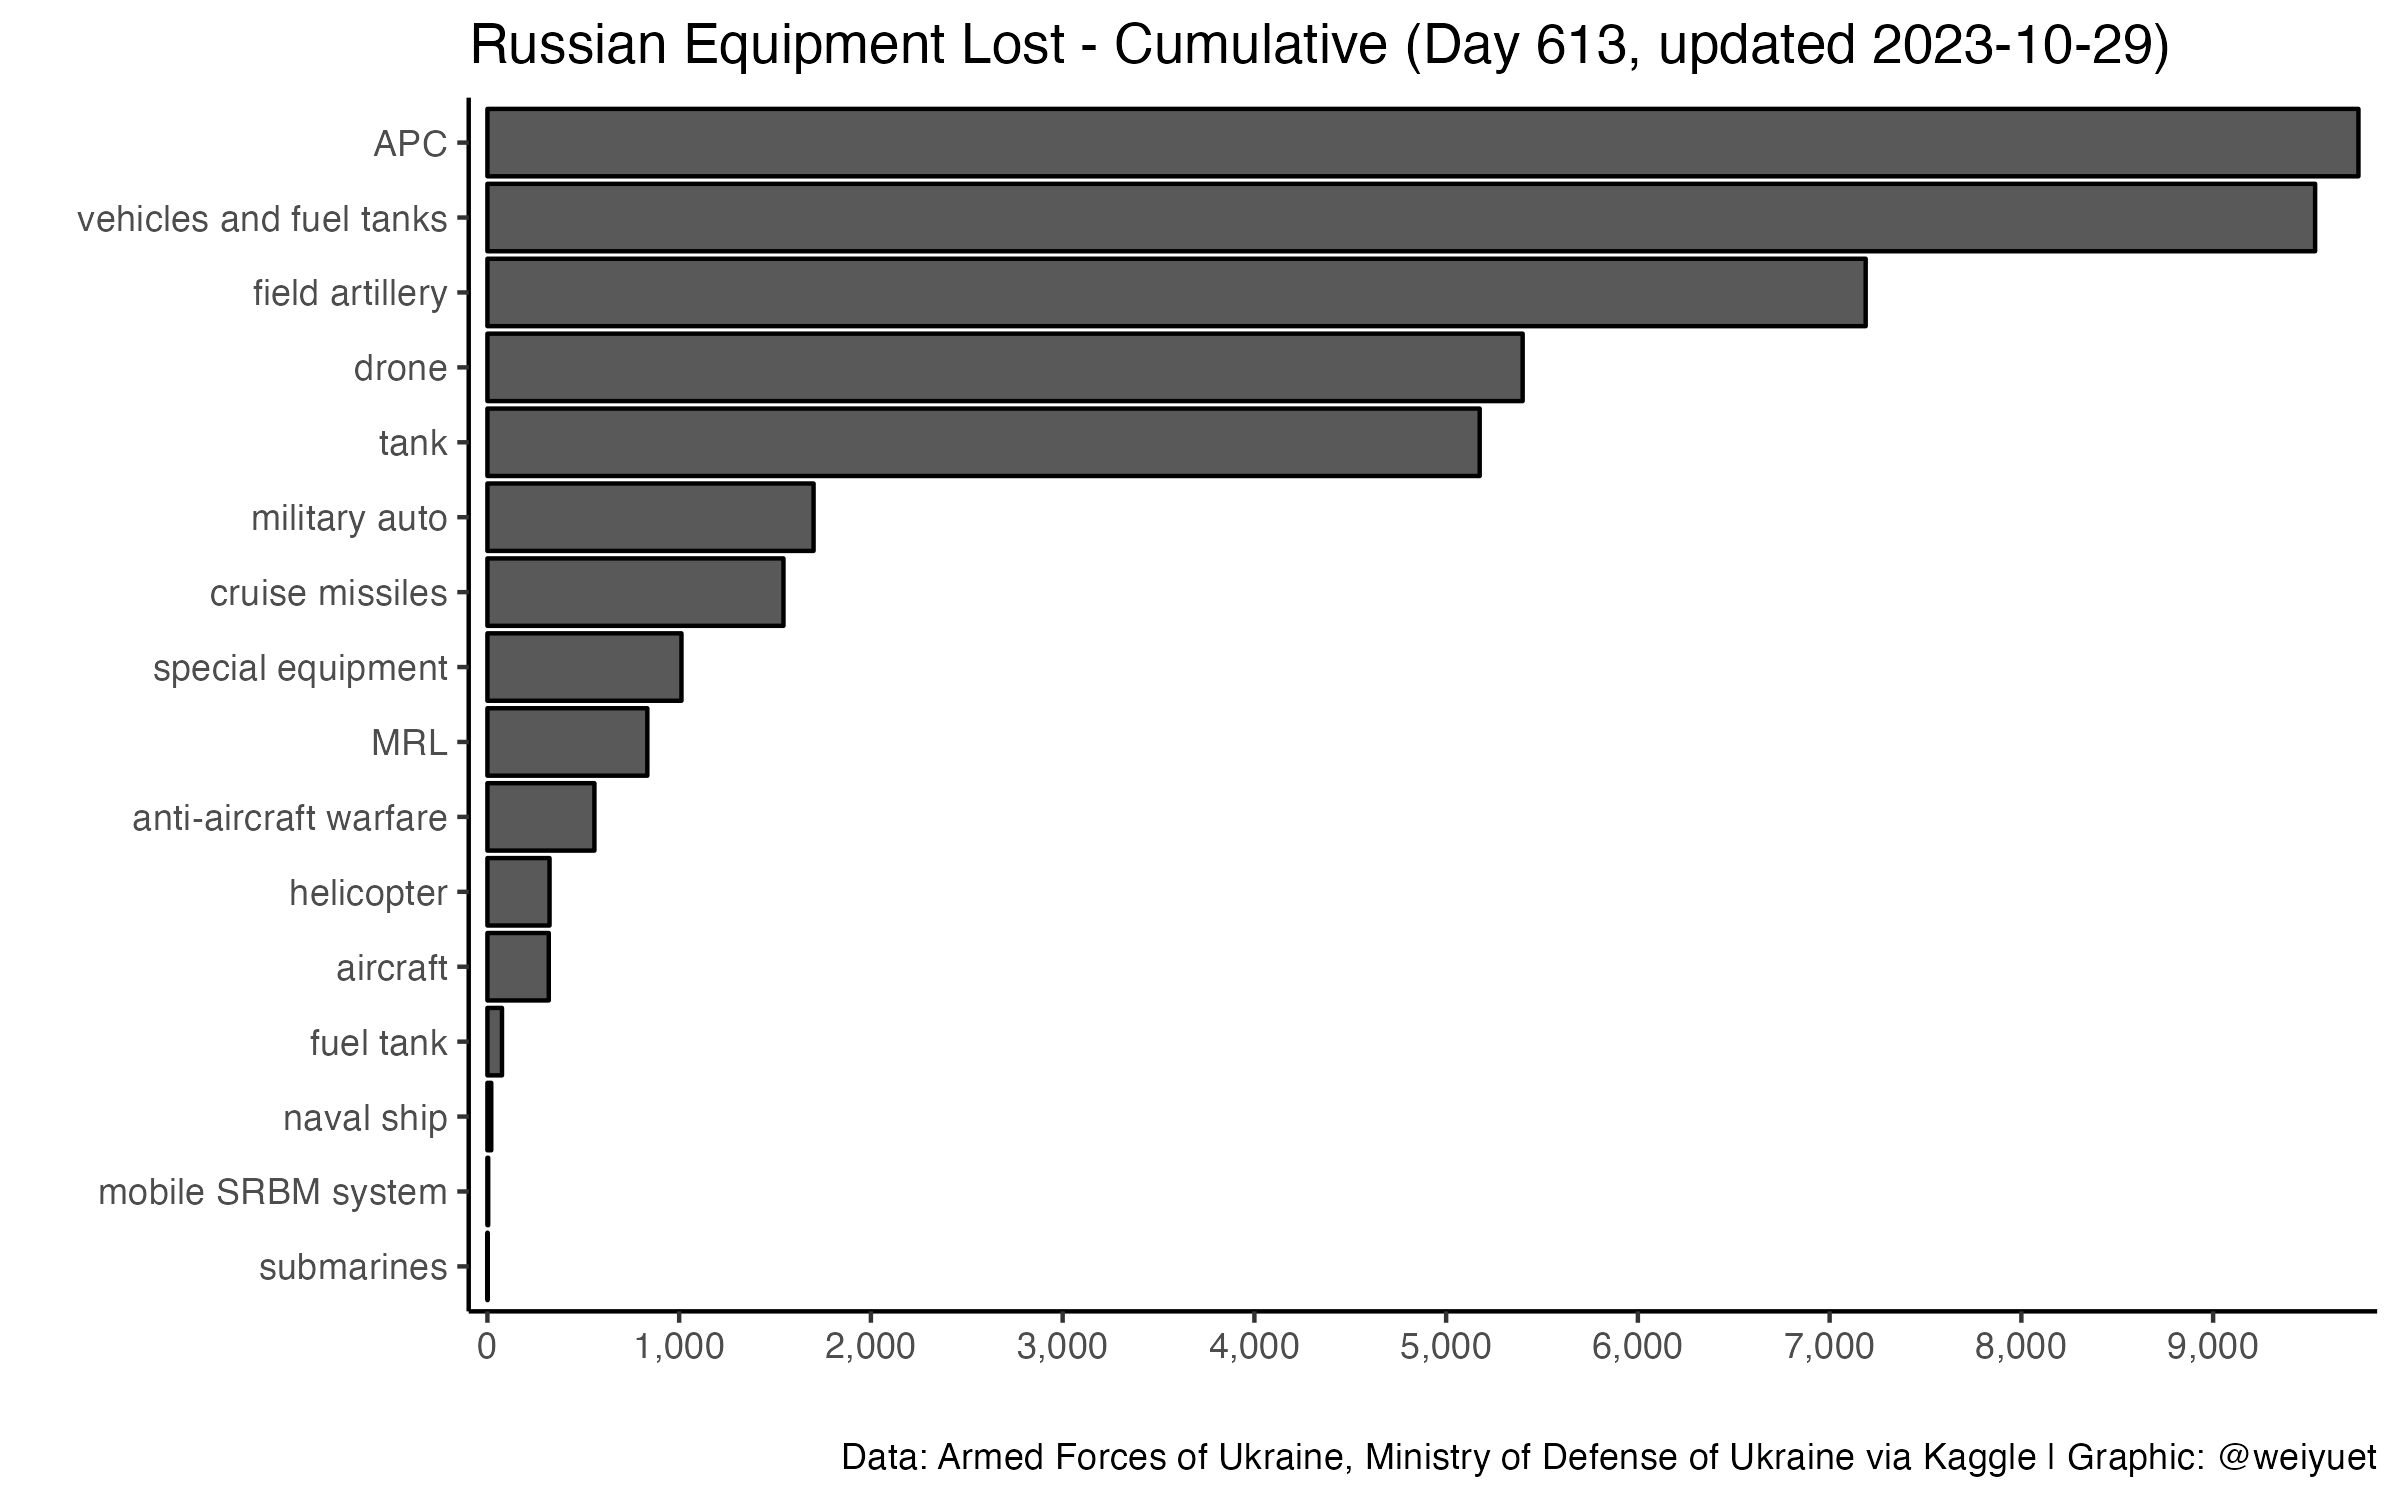
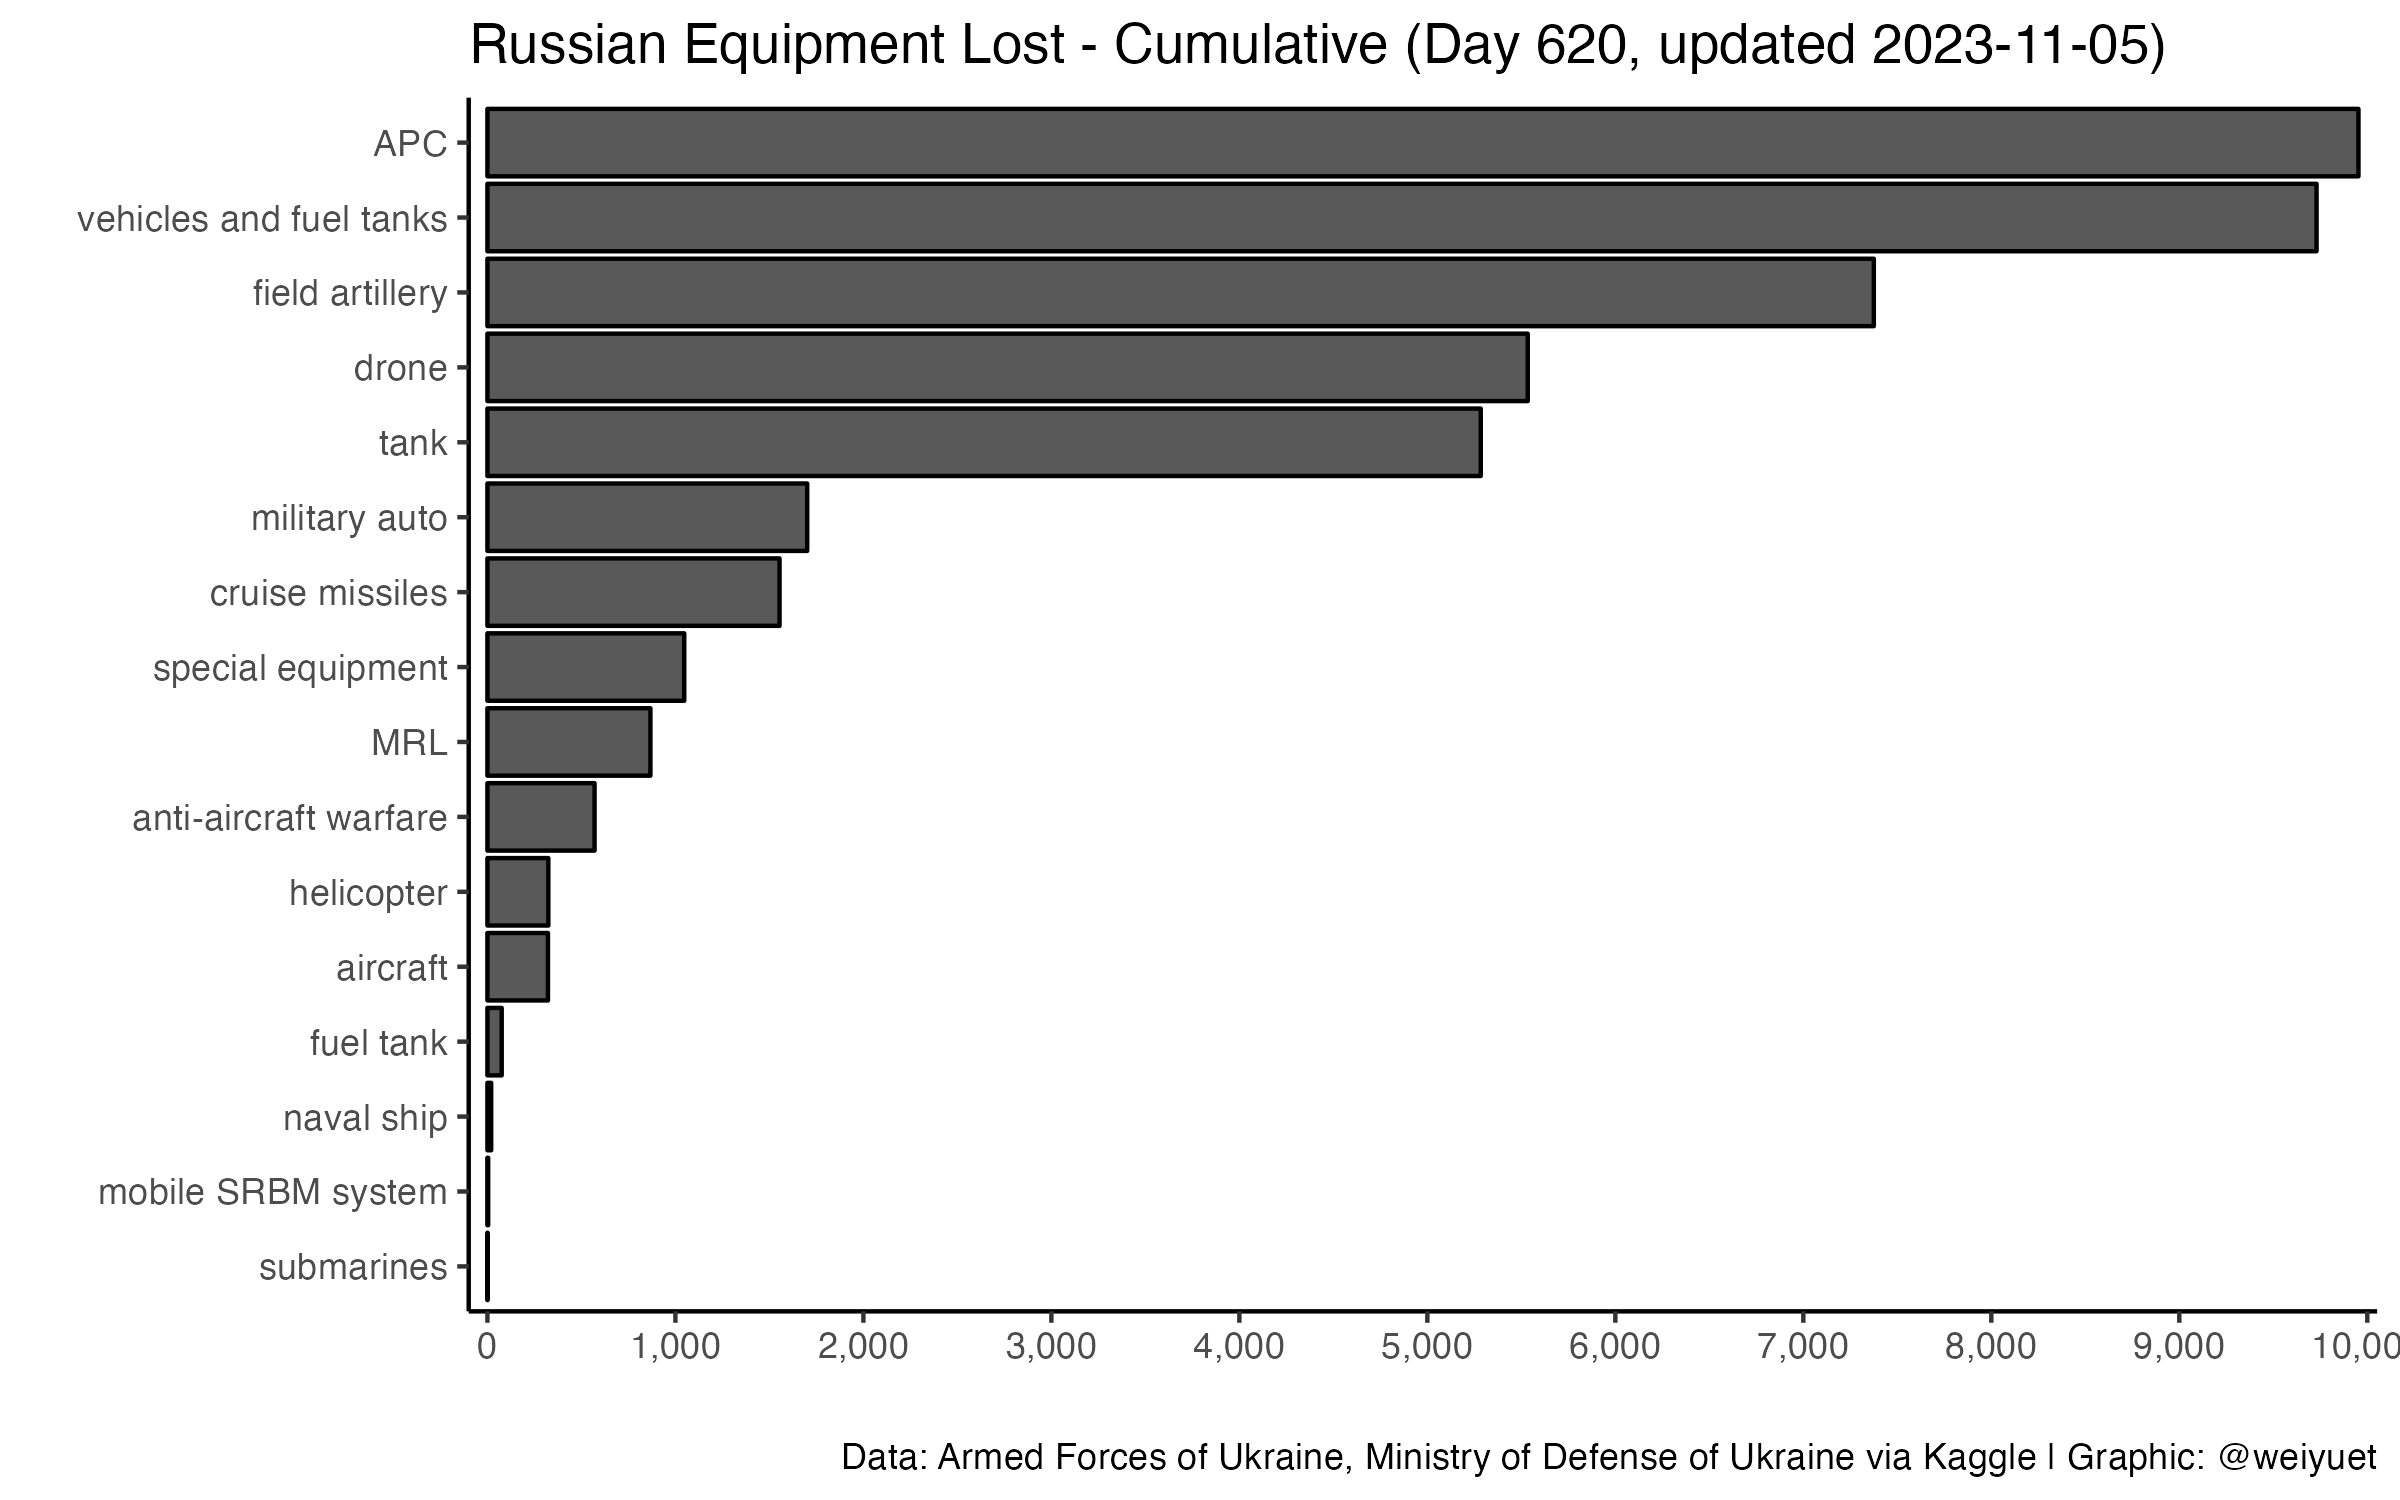
Updated 5 November

diff --git a/README.md b/README.md
@@ -6,7 +6,7 @@ Wong Wei Yuet 2022-05-26
 
   - War casualty data updated daily from [`Petro Ivanyuk's Kaggle`](https://www.kaggle.com/datasets/piterfm/2022-ukraine-russian-war). All data is official and put together by `Petro`
 
-Updated: 2023-10-30
+Updated: 2023-11-05
 
 ## Summary of Conflict
 
